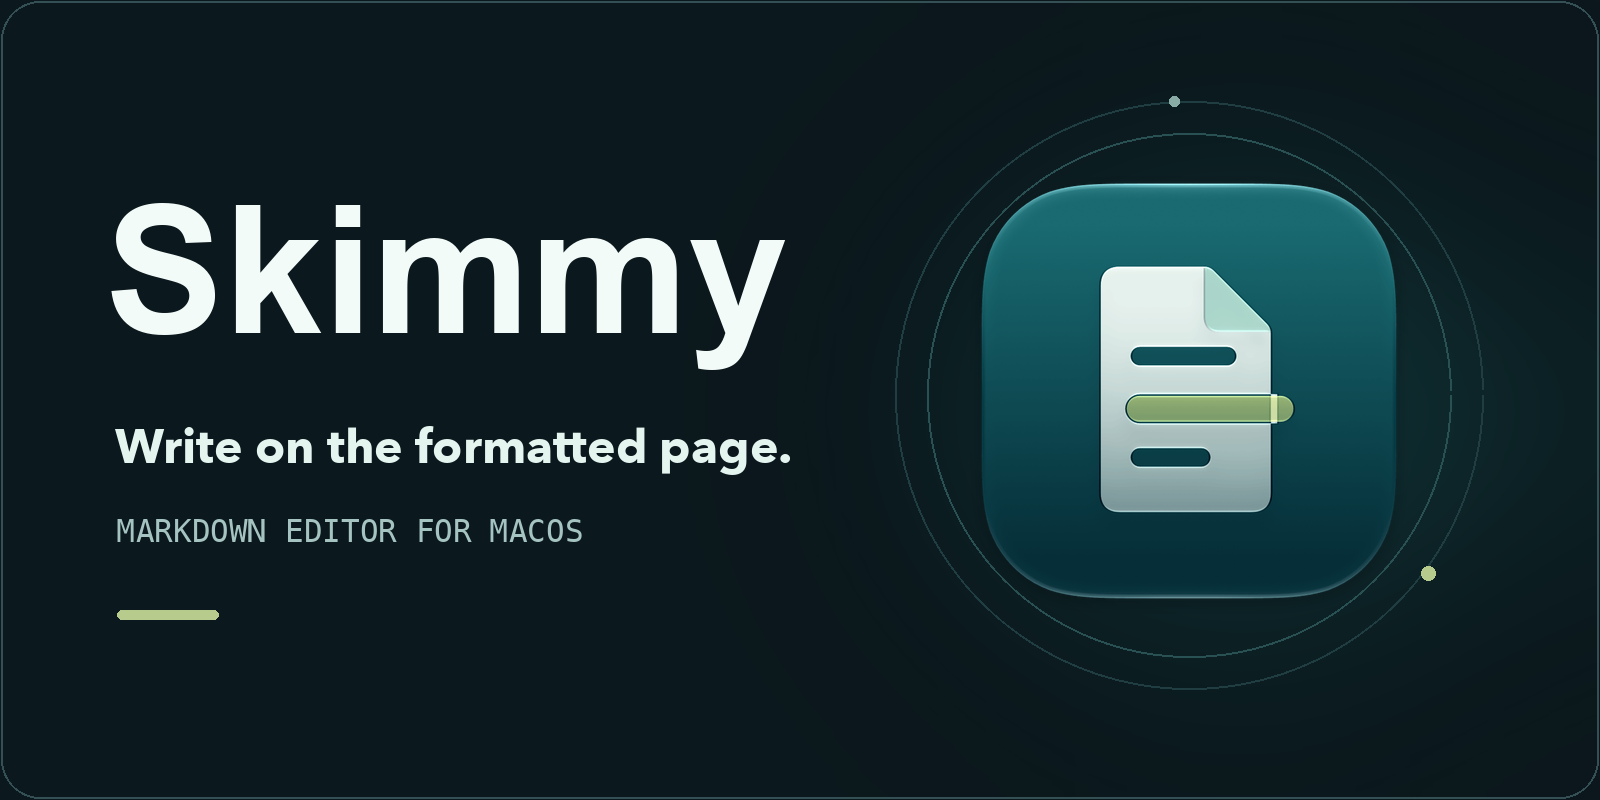
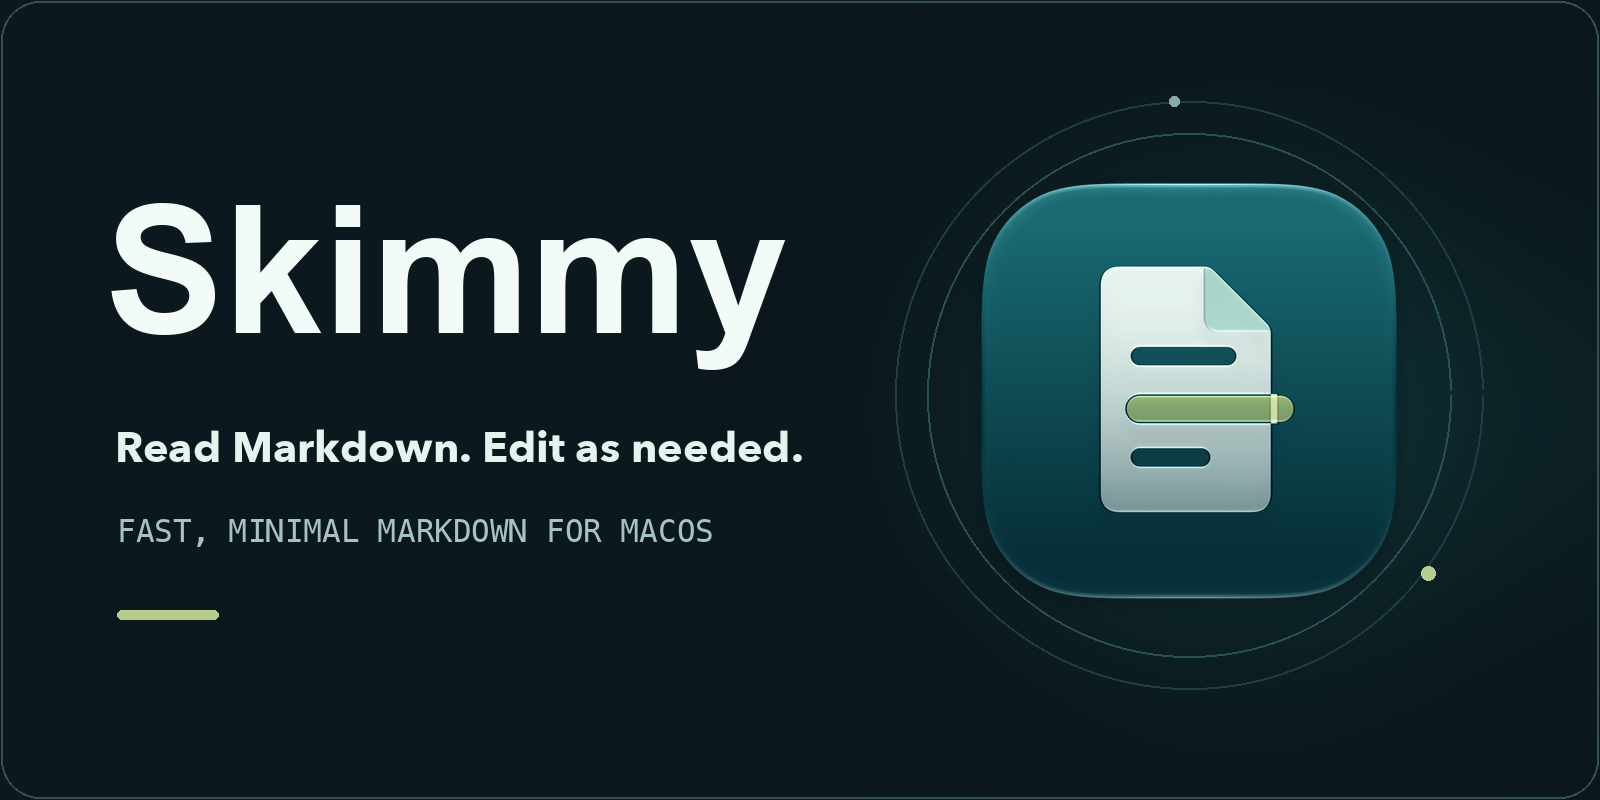
Present Skimmy as a Markdown reader first

Changed region(s): [[0.0625, 0.5312, 0.5, 0.5938], [0.0625, 0.625, 0.4375, 0.6875]]

diff --git a/README.md b/README.md
@@ -1,5 +1,5 @@
 <p align="center">
-  <img src=".github/banner.png" alt="Skimmy, a Markdown editor for macOS. Write on the formatted page." width="760">
+  <img src=".github/banner.png" alt="Skimmy. Read Markdown. Edit as needed. Fast, minimal Markdown for macOS." width="760">
 </p>
 
 <p align="center">
@@ -11,9 +11,10 @@
 
 # Skimmy
 
-**Fast, minimal Markdown editing for Mac.** Skimmy puts the page first, with a
-compact native toolbar and light and dark appearances. Edit directly on the
-formatted page or switch to Markdown source when you want the exact syntax.
+**A fast, minimal Markdown reader for Mac.** Open a file and start reading
+in a clean, native window. Use the sidebar to jump between headings, or hide
+it to focus on the page. Choose **Edit** to make changes directly on the
+formatted page, or **Source** to work with the Markdown syntax.
 
 <p align="center">
   <a href="https://github.com/giulioc84/skimmy_markdown/releases/latest"><b>Download for Mac</b></a>
@@ -38,12 +39,12 @@ formatted page or switch to Markdown source when you want the exact syntax.
 
 ## Highlights
 
-- **Edit the formatted page.** Change headings, emphasis, inline code, lists,
-  and links from the Format menu. Check off tasks directly in the document.
 - **Read GitHub-flavored Markdown.** Tables, code blocks, and task lists render
-  in Read mode. Use Source for precise control over Markdown syntax.
-- **Find your place.** Jump to a heading or browse links from the sidebar. In
-  Edit, replace the current search match or all matches at once.
+  in Read mode, where documents open by default.
+- **Find your place.** Search the page, jump to a heading, or browse links from
+  the sidebar.
+- **Edit the formatted page.** Format headings, emphasis, inline code, lists,
+  and links. Check off tasks or use Find and Replace in Edit mode.
 - **Open and save ordinary Markdown files.** Skimmy supports `.md`,
   `.markdown`, and `.mdown` with standard macOS document commands.
 - **Make the page easier to read.** Choose System, Light, or Dark in Settings
